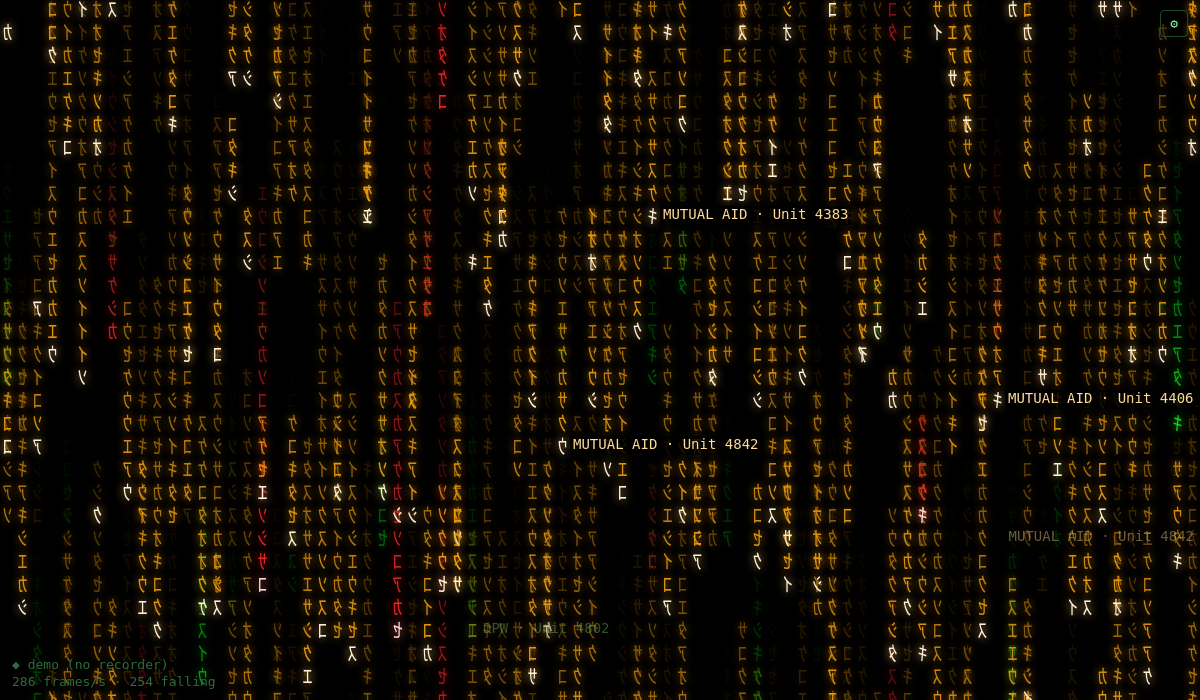
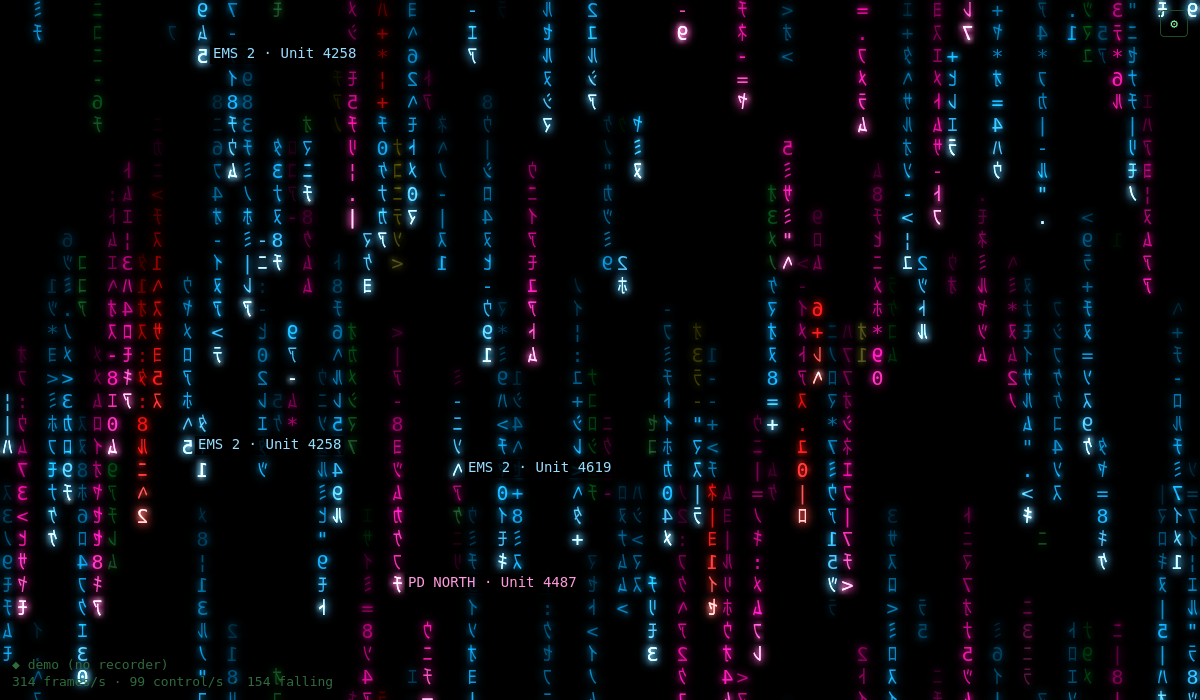
System menu, no red for talkgroups, fresh screenshots

Changed region(s): [[0.0, 0.0, 1.0, 1.0]]

diff --git a/interface/rain.js b/interface/rain.js
@@ -9,7 +9,7 @@ const canvas = $("rain");
 const g = canvas.getContext("2d");
 
 // ---- settings (a convenience: the page works without storage) ----
-const DEFAULTS = { tags: "both", tagEvery: "sec", color: "classic", glyphs: "hex", speed: 18, size: 16, change: "data", changeRate: 1.8, stack: 2, trail: 20, cc: "all", ccLevel: 0.15, bloom: true, bad: true, flicker: true, sound: false, tgFilter: "" };
+const DEFAULTS = { tags: "both", tagEvery: "sec", color: "classic", glyphs: "hex", speed: 18, size: 16, change: "data", changeRate: 1.8, stack: 2, trail: 20, cc: "all", ccLevel: 0.15, bloom: true, bad: true, flicker: true, sound: false, system: "", tgFilter: "" };
 const opts = { ...DEFAULTS };
 try {
   Object.assign(opts, JSON.parse(localStorage.getItem("rain.opts") ?? "{}"));
@@ -171,6 +171,7 @@ function onLog(m) {
 }
 
 function ccPasses(l) {
+  if (opts.system && l.system !== opts.system) return false;
   const want = opts.tgFilter.trim();
   if (!want) return true;
   const tg = frames.ccTalkgroup(l.text);
@@ -238,13 +239,26 @@ function onVoice(v) {
 }
 
 function passes(v) {
+  if (opts.system && names.systemName(v.system) !== opts.system) return false;
   const want = opts.tgFilter.trim();
   if (!want || /^\d+$/.test(want)) return true; // a number filters at the recorder
   return names.talkgroup(v).toLowerCase().includes(want.toLowerCase());
 }
 
 // ---- names (the recorder's, or the demo's) ----
-let names = { talkgroup: (v) => `TG ${v.talkgroup}`, unit: (v) => (v.unit ? `${v.unit}` : ""), systemIndex: () => 0 };
+let names = { talkgroup: (v) => `TG ${v.talkgroup}`, unit: (v) => (v.unit ? `${v.unit}` : ""), systemIndex: () => 0, systemName: () => "" };
+
+/** The System menu: all systems, or one; kept as chosen while the list changes. */
+let systemsShown = "";
+function setSystems(list) {
+  const key = list.join("\n");
+  if (key === systemsShown) return;
+  systemsShown = key;
+  const el = $("system");
+  const want = opts.system && !list.includes(opts.system) ? [...list, opts.system] : list;
+  el.replaceChildren(new Option("all systems", ""), ...want.map((n) => new Option(n, n)));
+  el.value = opts.system;
+}
 
 // ---- drawing ----
 let lastT = clock();
@@ -436,7 +450,7 @@ for (const id of Object.keys(DEFAULTS)) {
     save();
     if (id === "size" || id === "glyphs") layout();
     if (id === "sound") opts.sound ? sound.on() : sound.off();
-    if (id === "sound" || id === "tgFilter" || id === "cc") relisten();
+    if (id === "sound" || id === "tgFilter" || id === "cc" || id === "system") relisten();
   });
 }
 addEventListener("resize", layout);
@@ -459,10 +473,15 @@ async function connect() {
       return (short && rec.unitName(short, v.unit)) || `${v.unit}`;
     },
     systemIndex: (short) => Math.max(0, rec.status?.systemNames?.indexOf(short) ?? 0),
+    systemName: (i) => client.systemName(rec.status, i),
   };
+  // The systems: those recording (status), else those set up (config).
+  const systems = () => rec.status?.systemNames?.length ? rec.status.systemNames : [...(rec.config?.systems ?? []), ...(rec.config?.conventional ?? [])].map((s) => s.shortName);
+  rec.on("status", () => setSystems(systems()));
+  rec.on("config", () => setSystems(systems()));
   relisten = () => {
     const want = opts.tgFilter.trim();
-    rec.listen({ voice: true, audio: !!opts.sound, talkgroup: /^\d+$/.test(want) ? Number(want) : null });
+    rec.listen({ voice: true, audio: !!opts.sound, system: opts.system || null, talkgroup: /^\d+$/.test(want) ? Number(want) : null });
     // The control channel's messages come on the log topic.
     rec.subscribe(opts.cc === "off" ? [] : ["log"]);
     ccQueue.length = 0;
@@ -512,7 +531,8 @@ function demo(warmS) {
     }
     onLog({ lines: lines.map((l) => ({ timeS: 0, system: "demo", site: "demo", ...l })) });
   };
-  names = { talkgroup: (v) => v.alias ?? `TG ${v.talkgroup}`, unit: (v) => `Unit ${v.unit}` };
+  names = { talkgroup: (v) => v.alias ?? `TG ${v.talkgroup}`, unit: (v) => `Unit ${v.unit}`, systemIndex: () => 0, systemName: () => "demo" };
+  setSystems(["demo"]);
   // ?warm=N: N seconds of it already fallen (for screenshots).
   for (let ms = 0; ms < warmS * 1000; ms += 20) {
     ahead += 20;

diff --git a/interface/frames.js b/interface/frames.js
@@ -57,9 +57,10 @@ export function glyphsOf(bytes, codec, style) {
 /**
  * A hue for talkgroup or radio `id` of system `system`, degrees: a golden
  * angle (137.5°) apart for each step, so neighbouring numbers, often one
- * agency's, still get colours far apart.
+ * agency's, still get colours far apart. Never red (25°–335° only): red is
+ * a damaged frame's.
  */
-export const hueOf = (system, id) => (((id + system * 0.381966) * 137.50776) % 360 + 360) % 360;
+export const hueOf = (system, id) => 25 + ((((id + system * 0.381966) * 137.50776) % 360 + 360) % 360) * (310 / 360);
 
 /**
  * A trail glyph's brightness, 1 at the head down to 0 at `fade` rows behind

diff --git a/interface/index.html b/interface/index.html
@@ -69,6 +69,7 @@
   <label>Damaged frames in red <input id="bad" type="checkbox"></label>
   <label>Errors flicker <input id="flicker" type="checkbox"></label>
   <label>Sound <input id="sound" type="checkbox"></label>
+  <label>System <select id="system"><option value="">all systems</option></select></label>
   <label>Talkgroup <input id="tgFilter" type="text" placeholder="all"></label>
 </div>
 <script type="module" src="rain.js"></script>

diff --git a/CHANGELOG.md b/CHANGELOG.md
@@ -18,6 +18,9 @@
   drops in a column never collide.
 - Kana is 64 glyphs, six bits each: half-width katakana with the digits and a few symbols, mirrored.
 - Bloom (`bloom`, on by default): a soft glow where the rain is bright.
+- A System menu (`system`): all systems, or one; it filters the voice and the control channel, and the
+  talkgroup filter applies within it.
+- Talkgroup and talker colours are never red, the colour of a damaged frame.
 
 ## [0.1.0]
 

diff --git a/README.md b/README.md
@@ -49,6 +49,7 @@ of rain already fallen.
 | `speed` | rows a second, 4–60 |
 | `size` | glyph size, px |
 | `bloom`, `bad`, `flicker`, `sound` | `1` / `0` |
+| `system` | a system's short name, or empty for all of them (filtered at the recorder) |
 | `tgFilter` | a talkgroup number (filtered at the recorder) or text to match its alpha tag |
 
 ## Development
